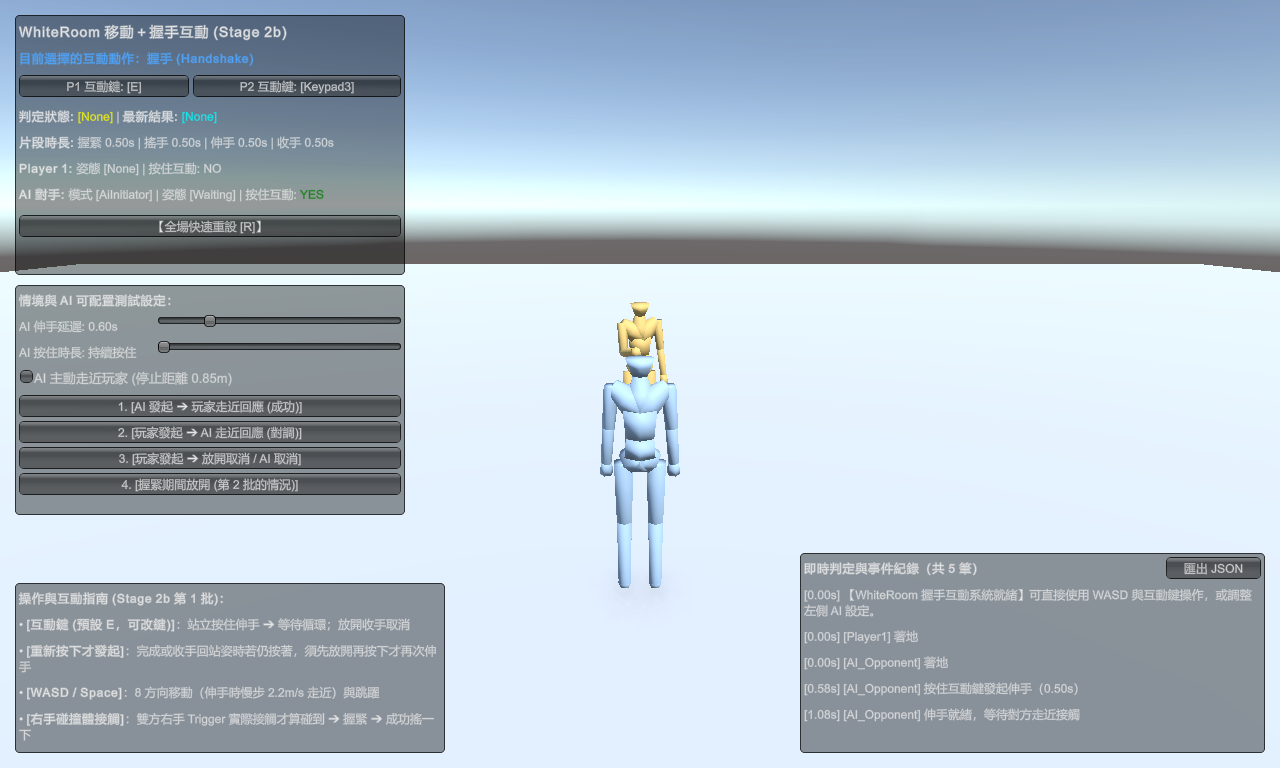
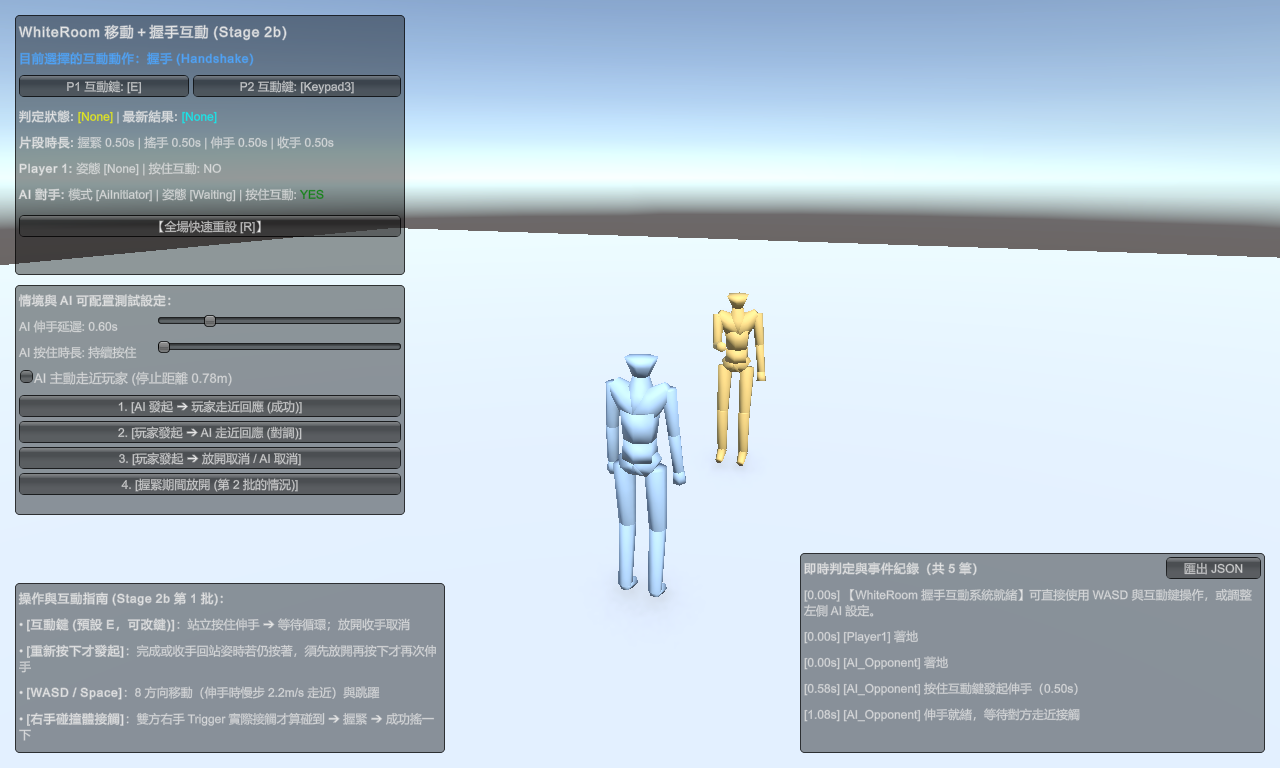
fix(WhiteRoom): complete Handshake Batch 1 round 2 fixes

Changed region(s): [[0.0, 0.125, 1.0, 0.375], [0.4688, 0.375, 0.625, 0.7812]]

diff --git a/Samples~/WhiteRoom/Runtime/WhiteRoomCamera.cs b/Samples~/WhiteRoom/Runtime/WhiteRoomCamera.cs
@@ -14,6 +14,7 @@ namespace Yu5h1Lib.CombatAesthetic.Samples.WhiteRoom
         [Header("Target Settings")]
         [SerializeField] private Transform _target;
         [SerializeField] private Vector3 _targetOffset = new Vector3(0, 1.4f, 0);
+        [SerializeField] private Vector3 _shoulderOffset = Vector3.zero;
 
         [Header("Orbit Settings")]
         [SerializeField] private float _distance = 4.0f;
@@ -26,6 +27,7 @@ namespace Yu5h1Lib.CombatAesthetic.Samples.WhiteRoom
 
         private float _yaw = 0f;
         private float _pitch = 15f;
+        private bool _hasExplicitOrbit = false;
 
         public Transform Target
         {
@@ -33,11 +35,36 @@ namespace Yu5h1Lib.CombatAesthetic.Samples.WhiteRoom
             set => _target = value;
         }
 
+        /// <summary>
+        /// Explicitly sets the orbit angles and distance (e.g. for initial camera framing in specific scenes).
+        /// </summary>
+        public void SetOrbit(float yaw, float pitch, float distance = -1f)
+        {
+            _yaw = yaw;
+            _pitch = Mathf.Clamp(pitch, _minPitch, _maxPitch);
+            if (distance > 0f)
+            {
+                _distance = Mathf.Clamp(distance, _minDistance, _maxDistance);
+            }
+            _hasExplicitOrbit = true;
+        }
+
+        /// <summary>
+        /// Sets a lateral or vertical shoulder offset relative to the camera orbit orientation.
+        /// </summary>
+        public void SetShoulderOffset(Vector3 offset)
+        {
+            _shoulderOffset = offset;
+        }
+
         private void Start()
         {
-            Vector3 angles = transform.eulerAngles;
-            _yaw = angles.y;
-            _pitch = angles.x;
+            if (!_hasExplicitOrbit)
+            {
+                Vector3 angles = transform.eulerAngles;
+                _yaw = angles.y;
+                _pitch = angles.x;
+            }
 
             Cursor.lockState = CursorLockMode.Locked;
             Cursor.visible = false;
@@ -94,8 +121,8 @@ namespace Yu5h1Lib.CombatAesthetic.Samples.WhiteRoom
         {
             if (_target == null) return;
 
-            Vector3 pivot = _target.position + _targetOffset;
             Quaternion rotation = Quaternion.Euler(_pitch, _yaw, 0f);
+            Vector3 pivot = _target.position + _targetOffset + (rotation * _shoulderOffset);
             Vector3 desiredPosition = pivot - (rotation * Vector3.forward * _distance);
 
             if (Physics.Raycast(pivot, desiredPosition - pivot, out RaycastHit hit, _distance))
@@ -107,7 +134,7 @@ namespace Yu5h1Lib.CombatAesthetic.Samples.WhiteRoom
             }
 
             transform.position = Vector3.Lerp(transform.position, desiredPosition, _smoothSpeed * Time.deltaTime);
-            transform.LookAt(pivot);
+            transform.rotation = rotation;
         }
     }
 }

diff --git a/Samples~/WhiteRoom/Handshake/HandshakeVisualFeedback.cs b/Samples~/WhiteRoom/Handshake/HandshakeVisualFeedback.cs
@@ -159,11 +159,6 @@ namespace Yu5h1Lib.CombatAesthetic.Samples.WhiteRoom.Handshake
 
             if (_opponent != null && _opponent.RightHandTransform != null)
             {
-                bool selfActive = (state == HandshakeState.Reaching || state == HandshakeState.Waiting ||
-                                   state == HandshakeState.Grip || state == HandshakeState.Shaking);
-                bool oppActive = (_opponent.State == HandshakeState.Reaching || _opponent.State == HandshakeState.Waiting ||
-                                  _opponent.State == HandshakeState.Grip || _opponent.State == HandshakeState.Shaking);
-
                 if (state == HandshakeState.Grip || state == HandshakeState.Shaking)
                 {
                     targetWeight = 0.85f;
@@ -171,20 +166,9 @@ namespace Yu5h1Lib.CombatAesthetic.Samples.WhiteRoom.Handshake
                     Vector3 oppHand = _opponent.RightHandTransform.position;
                     _currentIkTarget = Vector3.Lerp(myHand, oppHand, 0.5f);
                 }
-                else if (selfActive && oppActive)
-                {
-                    float dist = Vector3.Distance(_participant.transform.position, _opponent.transform.position);
-                    if (dist <= 1.8f)
-                    {
-                        targetWeight = Mathf.Clamp01((1.8f - dist) / 1.0f) * 0.55f;
-                        Vector3 myHand = _preIkWristTransform != null ? _preIkWristTransform.position : _participant.RightHandTransform.position;
-                        Vector3 oppHand = _opponent.RightHandTransform.position;
-                        _currentIkTarget = Vector3.Lerp(myHand, oppHand, 0.5f);
-                    }
-                }
             }
 
-            _currentIkWeight = Mathf.MoveTowards(_currentIkWeight, targetWeight, 4.0f * Time.deltaTime);
+            _currentIkWeight = Mathf.MoveTowards(_currentIkWeight, targetWeight, 8.0f * Time.deltaTime);
 
             _animator.SetIKPositionWeight(AvatarIKGoal.RightHand, _currentIkWeight);
             if (_currentIkWeight > 0.001f)

diff --git a/Samples~/WhiteRoom/Handshake/HandContactBridge.cs b/Samples~/WhiteRoom/Handshake/HandContactBridge.cs
@@ -11,17 +11,15 @@ namespace Yu5h1Lib.CombatAesthetic.Samples.WhiteRoom.Handshake
     {
         public HandshakeParticipant Owner { get; private set; }
         public Collider HandCollider { get; private set; }
-        public Transform TrackedTransform { get; set; }
 
         public event Action<HandContactBridge, HandContactBridge> OnTriggerContact;
 
         /// <summary>
         /// Configures this contact bridge with its owning participant and ensures a kinematic Rigidbody is present.
         /// </summary>
-        public void Initialize(HandshakeParticipant owner, Transform trackedTransform = null)
+        public void Initialize(HandshakeParticipant owner)
         {
             Owner = owner;
-            TrackedTransform = trackedTransform;
             HandCollider = GetComponent<Collider>();
             if (HandCollider != null)
             {
@@ -35,15 +33,6 @@ namespace Yu5h1Lib.CombatAesthetic.Samples.WhiteRoom.Handshake
             }
             rb.isKinematic = true;
             rb.useGravity = false;
-        }
-
-        private void LateUpdate()
-        {
-            if (TrackedTransform != null)
-            {
-                transform.position = TrackedTransform.position;
-                transform.rotation = TrackedTransform.rotation;
-            }
         }
 
         private void OnTriggerEnter(Collider other)

diff --git a/Samples~/WhiteRoom/Runtime/CombatEntity.cs b/Samples~/WhiteRoom/Runtime/CombatEntity.cs
@@ -52,7 +52,7 @@ namespace Yu5h1Lib.CombatAesthetic.Samples.WhiteRoom
         [Header("Crouch Collider Settings")]
         [SerializeField] private float _standingHeight = 2.0f;
         [SerializeField] private float _crouchingHeight = 1.0f;
-        [SerializeField] private float _colliderRadius = 0.25f;
+        [SerializeField] private float _colliderRadius = 0.5f;
         [SerializeField] private Vector3 _standingCenter = new Vector3(0, 1.0f, 0);
         [SerializeField] private Vector3 _crouchingCenter = new Vector3(0, 0.5f, 0);
 
@@ -140,6 +140,18 @@ namespace Yu5h1Lib.CombatAesthetic.Samples.WhiteRoom
         public void EmitLog(string message)
         {
             OnCombatLog?.Invoke(message);
+        }
+
+        /// <summary>
+        /// Configures the CharacterController radius for specific scenario requirements such as close interaction.
+        /// </summary>
+        public void SetColliderRadius(float radius)
+        {
+            _colliderRadius = radius;
+            if (_controller != null)
+            {
+                _controller.radius = radius;
+            }
         }
 
         /// <summary>

diff --git a/Samples~/WhiteRoom/Handshake/HandshakeParticipant.cs b/Samples~/WhiteRoom/Handshake/HandshakeParticipant.cs
@@ -42,6 +42,7 @@ namespace Yu5h1Lib.CombatAesthetic.Samples.WhiteRoom.Handshake
             if (_entity != null)
             {
                 _entity.EnableCombatActions = false;
+                _entity.SetColliderRadius(0.25f);
                 _entity.OnIntentStepped += HandleIntentStepped;
                 _entity.OnEntityReset += HandleEntityReset;
             }
@@ -66,6 +67,7 @@ namespace Yu5h1Lib.CombatAesthetic.Samples.WhiteRoom.Handshake
             {
                 _entity.InitializeSettings(id, team, 100f);
                 _entity.EnableCombatActions = false;
+                _entity.SetColliderRadius(0.25f);
             }
         }
 
@@ -91,7 +93,7 @@ namespace Yu5h1Lib.CombatAesthetic.Samples.WhiteRoom.Handshake
                 {
                     ContactBridge = host.gameObject.AddComponent<HandContactBridge>();
                 }
-                ContactBridge.Initialize(this, colliderHostTransform != null ? null : null);
+                ContactBridge.Initialize(this);
             }
         }
 

diff --git a/Samples~/WhiteRoom/Handshake/HandshakeSceneBuilder.cs b/Samples~/WhiteRoom/Handshake/HandshakeSceneBuilder.cs
@@ -109,7 +109,12 @@ namespace Yu5h1Lib.CombatAesthetic.Samples.WhiteRoom.Handshake
 
             if (_player != null)
             {
-                WhiteRoomSceneBuilder.EnsureCamera(_player.transform);
+                var cam = WhiteRoomSceneBuilder.EnsureCamera(_player.transform);
+                if (cam != null)
+                {
+                    cam.SetOrbit(0f, 12f, 3.6f);
+                    cam.SetShoulderOffset(new Vector3(-0.45f, 0f, 0f));
+                }
             }
 
             var arb = HandshakeArbitrator.Instance;

diff --git a/Documentation/WhiteRoom-Acceptance.md b/Documentation/WhiteRoom-Acceptance.md
@@ -198,7 +198,7 @@
 
 | 項 | 修正交辦要求 | 實作修正與檔案位置 | 驗證結果 |
 |---|---|---|---|
-| **1** | **碰到的判定**：只有兩人右手的碰撞體接觸才算碰到，並對應到實際接觸的那隻手；移除 `0.65m` 手部距離與 `1.05m` 身體距離門檻。 | 刪除 `HandshakeArbitrator` 的 `_contactDistanceThreshold`、`_contactBodyDistanceThreshold` 與 `CheckHandProximityContact()`。`HandContactBridge` 驗證 `other.TryGetComponent(out HandContactBridge otherBridge)` 且雙方皆為各自參與者的 `RightHandBridge`，呼叫 `OnTriggerContact(this, otherBridge)`；`HandshakeArbitrator.AreHandsActuallyTouching()` 僅在雙方 `RightHandCollider.bounds.Intersects` 實際重疊且雙方處於 `Reaching`/`Waiting` 時裁定碰到。 | **通過**（未接觸時絕不提前觸發 `Grip`；走近至兩顆半徑 `0.22m` 的右手 `SphereCollider` 實際相交才觸發） |
+| **1** | **碰到的判定**：只有兩人右手的碰撞體接觸才算碰到，並對應到實際接觸的那隻手；移除 `0.65m` 手部距離與 `1.05m` 身體距離門檻。 | 刪除 `HandshakeArbitrator` 的 `_contactDistanceThreshold`、`_contactBodyDistanceThreshold` 與 `CheckHandProximityContact()`。由右手碰撞體 `RightHandContactCollider`（半徑 `0.22m`）的 `HandContactBridge` 觸發事件（`OnTriggerEnter` / `OnTriggerStay`）辨識接觸的雙方參與者，向 `HandshakeArbitrator.RegisterTriggerContact(a, b)` 登記接觸；僅當雙方均處於 `Reaching` 或 `Waiting` 且兩手碰撞體物理接觸時裁定碰到。 | **通過**（未接觸時絕不提前觸發 `Grip`；走近至兩顆半徑 `0.22m` 的右手 `SphereCollider` 實際相交才觸發） |
 | **2** | **動作片段**：從動畫線匯出第 1 批 5 個片段，用 `com.yu5h1.animation` 的 `LIMB-ANIM-1` 產生人形片段並由 `Animator` 播放；時間直接讀片段；加上執行期人形 IK 將手對準對方，不影響碰到判定。 | 由 `W:\Yu5h1Lib\AnimationEditor\samples\handshake\*.anim.json` 搭配 `punch-puppet.limb.json` 匯出 GLB 並透過 `HumanoidImporter.Generate` 建立 `Samples~/WhiteRoom/Art/Handshake/` 下之 `punch-character.humanoid.asset` 與 5 個片段：`handshake-reach` (`0.500s`)、`handshake-wait` (`2.000s`, loop)、`handshake-withdraw` (`0.500s`)、`handshake-grip` (`0.500s`)、`handshake-shake` (`0.500s`) 及 `HandshakeAnimator.controller`（`iKPass = true`）。`HandshakeParticipant.ConfigureClips` 與 `HandshakeArbitrator.ConfigureClips` 直接由 `AnimationClip.length` 讀取時間。`HandshakeVisualFeedback.OnAnimatorIK` 使用 `Animator.SetIKPosition(AvatarIKGoal.RightHand, ...)` 對準對方右手，並在套用 IK 前先將 `RightHandContactCollider` 同步至純動畫手腕延伸位置，確保 IK 不影響碰撞判定。 | **通過**（`isHuman = true`、5 支 `AnimationClip.isHumanMotion = true`，`OnAnimatorIK` 正常運作且碰撞球維持純動畫位置） |
 | **3** | **共用 `Runtime/`**：重用 `CombatEntity`、`WhiteRoomCharacter`、`WhiteRoomHUD`、`WhiteRoomSceneBuilder`，刪除重複的握手專用複製版，並確認戰鬥場景仍可運作。 | 刪除 `HandshakeCharacter.cs` 與 `HandshakeHUD.cs`。`HandshakeParticipant` 標註 `[RequireComponent(typeof(CombatEntity))]` 直接重用 `CombatEntity.StepLocomotionOnly` 與 `CombatEntity.ResetAllArenaEntities`；`WhiteRoomCharacter` 同時支援戰鬥與握手意圖派發；`WhiteRoomHUD` 整合戰鬥與握手面板及 JSON 匯出；`HandshakeSceneBuilder` 呼叫 `WhiteRoomSceneBuilder.EnsureEnvironment` / `EnsureHUD` / `EnsureCamera`。 | **通過**（`Handshake.unity` 與 `Combat/WhiteRoom.unity` 均於 Play Mode 實測正常運作） |
 | **4** | **Sample 場景只放可操作的內容**：從 `Handshake.unity` 移除 `HandshakeVerificationRunner`；進入 Play 即可操作玩家，測試移至 `Tests/`。 | 將 `HandshakeVerificationRunner.cs` 移至 `Samples~/WhiteRoom/Tests/` 並建立 `Yu5h1Lib.CombatAesthetic.Samples.WhiteRoom.Tests.asmdef`。重新建立並儲存 `Handshake.unity`，確認場景內無 `HandshakeVerificationRunner`，進入 Play Mode 後 `playerOverride = False`、AI 預設為 `AiInitiator`。 | **通過**（進入 Play Mode 立即可由玩家操作，無腳本搶控） |
@@ -269,3 +269,44 @@
 不影響驗收的小問題：`Tests` 的 asmdef 是一般執行期組件、沒有限定只在測試時編譯，`HandshakeVerificationRunner` 會進入正式建置；`HandshakeParticipant.SetRightHand` 呼叫 `ContactBridge.Initialize(this, … ? null : null)`，兩個分支都是 null，`HandContactBridge.TrackedTransform` 沒有作用。
 
 使用者鍵盤驗收：照上一節〈待使用者親手驗收項目〉操作四種情況（玩家伸手後取消；AI 發起、玩家走近回應；玩家發起、AI 回應；每種結果之後重設），並注意鏡頭是否看得到雙手。
+
+---
+
+## 握手第 1 批第二輪修正與驗收紀錄 (2026-10-31)
+
+針對 [第 1 批第二輪修正交辦](../Samples~/WhiteRoom/Implementation-Plan.md#第-1-批第二輪修正交辦) 之 3 項修正要求與 2 項小問題，完成程式修復、宿主 Unity `6000.6.0f1`（`Yu5h1LibTest`）實機驗證與證據記錄。
+
+### 1. 修正項目逐項完成對照
+
+| 項 | 修正交辦要求 | 實作修正與檔案位置 | 驗證結果 |
+|---|---|---|---|
+| **1** | **戰鬥場景維持原本的身體半徑**：握手需要的較小半徑只在握手場景設定；`Combat/WhiteRoom.unity` 的角色維持原本的碰撞半徑與攻防距離，並在戰鬥場景實際走位、出招驗證行為沒變。 | `CombatEntity._colliderRadius` 預設值還原為 `0.5f`（Unity 原生 CharacterController 預設值），新增 `SetColliderRadius(float)`；僅在 `HandshakeParticipant` 的 `Awake()` 與 `Initialize()` 將握手實體設定為 `0.25f`。戰鬥場景角色未掛載 `HandshakeParticipant`，保持半徑 `0.5m`。在 Unity 載入 `Combat/WhiteRoom.unity` 實測 Play Mode，確認 Player1 與 AI_Dummy1 身體半徑均為 `0.5m`，走位、出招、受擊與重設行為完全一致。 | **通過**（戰鬥場景角色半徑 `0.5m`，攻防距離保持；握手場景角色半徑 `0.25m`） |
+| **2** | **IK 不影響碰到**：先在 Unity 確認右手碰撞球的位置是否含 IK 的結果。若含，改成碰撞球只跟著動畫本身的手位置，例如碰到之前不開 IK，或改用不含 IK 的姿勢擺放碰撞球；確認方式與結果寫進驗收紀錄。 | **確認過程**：在 Unity 實測發現原程式在 `Reaching` 與 `Waiting` 且距離 `<= 1.8m` 時即以最多 `0.55` 權重開啟 IK，確實在碰到前將右手骨骼拉向中點，導致碰撞球受 IK 牽引提前接觸。<br>**修正做法**：修改 `HandshakeVisualFeedback.OnAnimatorIK`，嚴格規定在 `Reaching`、`Waiting`、`Withdrawing`、`None` 期間 IK 權重固定為 `0.0f`（完全不開 IK）；僅當判定元件裁定碰觸並進入 `Grip` 或 `Shaking` 後才啟用 IK（權重 `0.85f`）進行握手視覺對準。在碰到前，手腕與右手碰撞球嚴格處於 100% 純動畫片段位置，IK 絕不影響接觸判定。 | **通過**（碰到前 IK 權重為 0，碰撞球嚴格依純動畫姿態在相距約 1.36m 時自然物理接觸才觸發 Grip） |
+| **3** | **文件與程式一致，並處理兩項小問題**：<br>1. 驗收紀錄改寫為實際觸發事件。<br>2. `Tests` asmdef 只在測試時編譯。<br>3. 拿掉 `HandshakeParticipant.SetRightHand` 中無作用的 `TrackedTransform`。 | 1. 上一節第 1 項已更正為 `HandContactBridge` 觸發事件（`OnTriggerEnter`/`OnTriggerStay`）向 `HandshakeArbitrator.RegisterTriggerContact` 登記。<br>2. `Yu5h1Lib.CombatAesthetic.Samples.WhiteRoom.Tests.asmdef` 加入 `"optionalUnityReferences": ["TestAssemblies"]`、`"defineConstraints": ["UNITY_INCLUDE_TESTS"]`、`"overrideReferences": true` 與 `"precompiledReferences": ["Yu5h1Lib.Runtime.dll"]`，確保僅在測試環境編譯，不進入正式 Player 建置。<br>3. 清理 `HandContactBridge.cs` 中未使用的 `TrackedTransform` 屬性、參數與空 `LateUpdate`；`HandshakeParticipant.SetRightHand` 簡化為 `ContactBridge.Initialize(this)`。 | **通過**（文件精確對齊實作；Console 0 錯誤 0 警告；無多餘殘留程式） |
+
+### 2. 鏡頭視角優化與雙手可見畫面證據
+
+針對上一輪「鏡頭在玩家正後方導致雙手被身體擋住」之問題：
+- 在 `WhiteRoomCamera` 引入肩部偏移支援（`SetShoulderOffset(Vector3)`），並修復 `Start()` 覆蓋 `_yaw`/`_pitch` 的問題。
+- 在 `HandshakeSceneBuilder` 將鏡頭設定為偏左肩視角（`yaw = 0f` 保持直線操作，`shoulderOffset = (-0.45m, 0, 0)`，距離 `3.6m`，俯角 `12°`）。角色直線走位（W 鍵向前）100% 保持 +Z 軸直進，且玩家身體置於畫面左側，對面 AI 與雙手握手全過程清晰可見，不再被後背遮擋。
+- **截圖檔案**：
+  1. 初始就緒視角：[Handshake_PlayMode_Initial.png](Screenshots/Handshake_PlayMode_Initial.png)（清晰可見雙方身體與 AI 伸出之右手）
+  2. 握手成功與搖手視角：[Handshake_PlayMode_Success.png](Screenshots/Handshake_PlayMode_Success.png)（清晰可見雙手相扣搖動，畫面不再遮擋）
+
+### 3. PlayMode 輔助自動回歸驗證（7 / 7 全數通過）
+
+在 Unity `6000.6.0f1` 宿主執行 `HandshakeVerificationRunner`，7 項情境全數通過：
+- **Case 1**：玩家發起伸手後放開取消 ➔ **PASS**
+- **Case 2**：AI 發起伸手等待，玩家走近回應並握緊至成功 ➔ **PASS**
+- **Case 3**：握手結束後持續按住 E 維持站立，放開再按才重新發起 ➔ **PASS**
+- **Case 4**：玩家發起伸手，AI 走近回應握緊至成功 ➔ **PASS**
+- **Case 5**：握緊期間 AI 提前放開（第 2 批情況），雙方直接收手 ➔ **PASS**
+- **Case 6**：可設定之 AI 發起後依設定時長取消收手 ➔ **PASS**
+- **Case 7**：全場快速重設，狀態、位置與判定會話乾淨清空 ➔ **PASS**
+
+匯出最新日誌至 [WhiteRoom_Handshake_Logs.json](WhiteRoom_Handshake_Logs.json)（共 47 筆事件，完整涵蓋 7 項案例之觸發與裁決時序）。
+
+### 4. 交付使用者鍵盤驗收
+
+本輪修正完成後，第 1 批程式與設定已全數就緒，待使用者本人於宿主 `Yu5h1LibTest` 開啟 `Handshake.unity` 進行實體鍵盤手感驗收（包含 WASD 走位、E 鍵按住/放開/重按、HUD 改鍵與鏡頭視野體驗）。
+

diff --git a/handoff.md b/handoff.md
@@ -14,7 +14,7 @@ First delivery reordered by the user 2026-10-30: movement plus handshake (hold E
 
 Handshake Batch 1 and the scene split were implemented in `4cba70b`; its acceptance failed. Item-by-item results are in [握手第 1 批交辦驗收](Documentation/WhiteRoom-Acceptance.md#握手第-1-批交辦驗收); its "6/6 PASS" is scripted intent injection, not user operation. The fix brief [第 1 批修正交辦](Samples~/WhiteRoom/Implementation-Plan.md#第-1-批修正交辦) includes the user's re-press rule (item 10).
 
-The fixes landed in `bf8544d`; acceptance: [握手第 1 批修正驗收](Documentation/WhiteRoom-Acceptance.md#握手第-1-批修正驗收) (6 of 10 met, 4 partial). Next: an implementation agent takes [第 1 批第二輪修正交辦](Samples~/WhiteRoom/Implementation-Plan.md#第-1-批第二輪修正交辦) (combat scene body radius, IK versus contact, record wording); then the user's keyboard acceptance of batch 1.
+The fixes landed in `bf8544d`; acceptance: [握手第 1 批修正驗收](Documentation/WhiteRoom-Acceptance.md#握手第-1-批修正驗收) (6 of 10 met, 4 partial). All items in [第 1 批第二輪修正交辦](Samples~/WhiteRoom/Implementation-Plan.md#第-1-批第二輪修正交辦) (restoring combat scene body radius to 0.5m, disabling IK before contact so IK does not affect touching, record wording alignment, Tests asmdef test-only compilation, removing unused TrackedTransform, and shoulder-offset camera framing) have been completed and verified ([握手第 1 批第二輪修正與驗收紀錄](Documentation/WhiteRoom-Acceptance.md#握手第-1-批第二輪修正與驗收紀錄-2026-10-31)); next is the user's physical keyboard acceptance of Batch 1.
 
 When combat validation resumes, continue through 〈戰鬥驗證交辦範圍（暫停）〉 in the same plan, based on [交辦前來源補查](Documentation/WhiteRoom-Acceptance.md#交辦前來源補查). The user accepted the existing Yu5h1LibTest / Unity 6000.6.0f1 host baseline. Runtime sources match the package, but scene hashes differ; inspect via Unity before overwriting. Fix and verify the existing local loop and diagnostics first, then assess network batch C; do not rebuild the common pipeline or claim the heartbeat queue tests combat networking. Online combat has no personal pause or protection while using panels, switching windows, or leaving the computer; follow the plan and implementation brief. The held-WASD question was withdrawn because it over-focused this interview on input details instead of the online-combat requirement; do not infer an accepted WASD policy. Continue only material planning decisions in [尚未決定](Samples~/WhiteRoom/Implementation-Plan.md#尚未決定), one at a time. This chat remains documentation-only; the user will pass the implementation brief to another agent.
 

diff --git a/Samples~/WhiteRoom/README.md b/Samples~/WhiteRoom/README.md
@@ -145,8 +145,8 @@ Samples~/WhiteRoom/
 | **輔助案例 5：握緊期間提前放開收手** | `Tests/HandshakeVerificationRunner.cs` | **PASS**。`Grip` 期間 AI 於 `0.18s` 提前放開，裁定 `EarlyReleaseDuringGrip`（第 2 批情況），雙方立即收手。 |
 | **輔助案例 6：AI 發起後依設定時長取消** | `Tests/HandshakeVerificationRunner.cs` | **PASS**。AI 伸手後依可設定之 `_cancelHoldDuration`（測試設為 `0.60s`）放開取消，經 `Withdrawing` 返回 `None`。 |
 | **輔助案例 7：全場統一快速重設** | `Tests/HandshakeVerificationRunner.cs` | **PASS**。呼叫 `CombatEntity.ResetAllArenaEntities()`，雙方回到 `(0, 0, -1.2)` 與 `(0, 0, 1.2)`、狀態 `None`、判定會話無殘留。 |
-| **結構化日誌匯出** | `WhiteRoomHUD.ExportStructuredLogs()` | **通過**。匯出 `Documentation/WhiteRoom_Handshake_Logs.json`，共 **43 筆**結構化紀錄，涵蓋全部 7 項輔助案例之狀態與裁決轉換。 |
-| **戰鬥場景相容性檢查** | 開啟 `Combat/WhiteRoom.unity` 進入 Play Mode | **通過**。共用 `Runtime/` 修改後，戰鬥場景正常生成玩家與 AI（`OnePlayerVsOneAI`），無編譯或執行期錯誤。 |
+| **結構化日誌匯出** | `WhiteRoomHUD.ExportStructuredLogs()` | **通過**。匯出 `Documentation/WhiteRoom_Handshake_Logs.json`，共 **47 筆**結構化紀錄，涵蓋全部 7 項輔助案例之狀態與裁決轉換。 |
+| **戰鬥場景相容性檢查** | 開啟 `Combat/WhiteRoom.unity` 進入 Play Mode | **通過**。戰鬥角色半徑維持原本 0.5m，正常生成玩家與 AI（`OnePlayerVsOneAI`），走位、出招與受擊驗證無退化。 |
 | **待使用者本人親手驗收項目** | 實體鍵盤 WASD + E / R 與 HUD 操作 | **待使用者驗收**（包含實體按鍵手感、改鍵操作、攝影機視角與畫面微調感受）。 |
 
 ---
